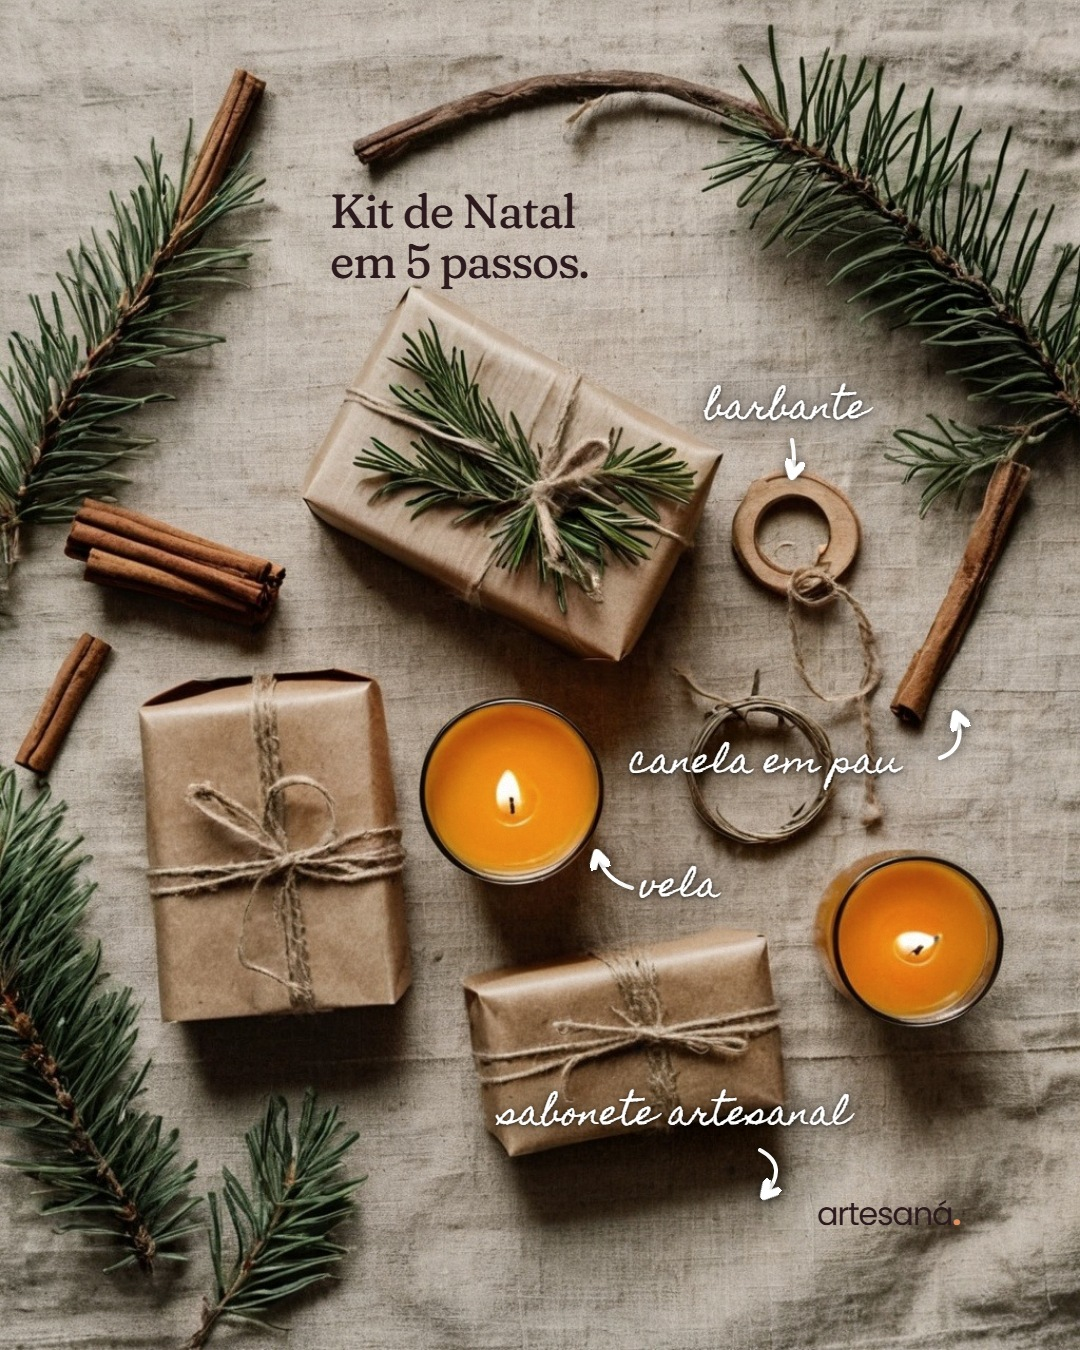
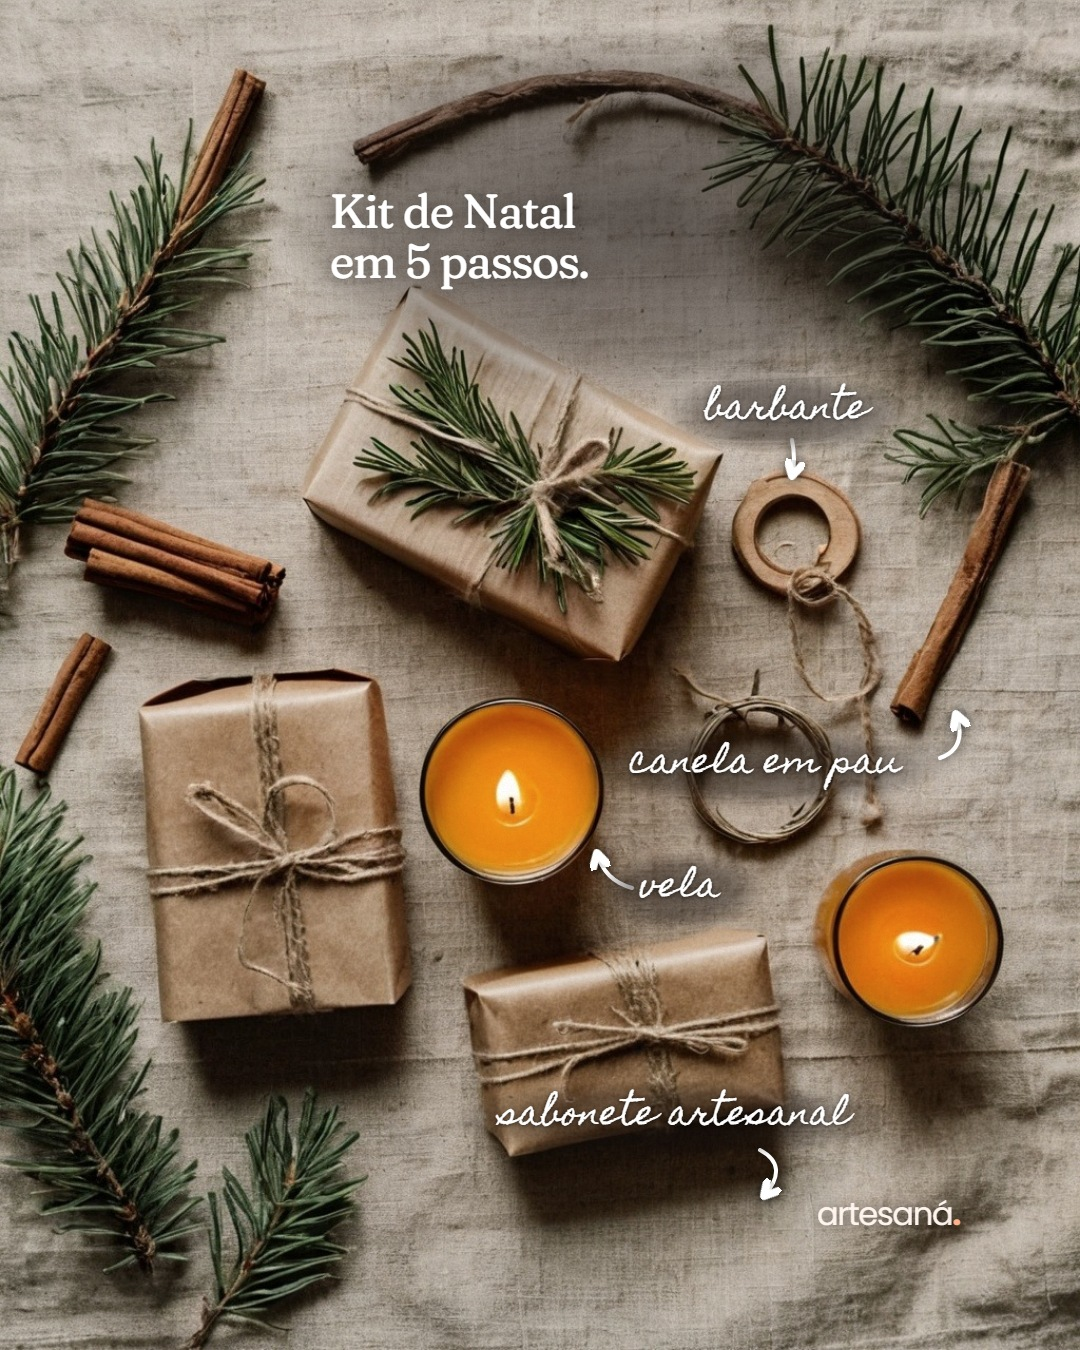
fix(marketing): sombra atrás do texto no frasco e na capa do kit; página força o navegador a baixar as imagens novas

diff --git a/marketing/instagram/modelos/festas.css b/marketing/instagram/modelos/festas.css
@@ -36,7 +36,8 @@
 
 /* .anotada: recados à mão com setas, brancos sobre a foto */
 .anotada .nota { position: absolute; margin: 0; font-family: 'Homemade Apple', cursive; font-size: 34px; line-height: 1.25; color: var(--cream); text-shadow: 0 1px 10px rgba(0, 0, 0, 0.55); white-space: nowrap; }
-.anotada .nota.escura { color: #fff; text-shadow: 0 1px 4px rgba(0, 0, 0, 0.8), 0 0 18px rgba(0, 0, 0, 0.65), 0 0 40px rgba(0, 0, 0, 0.5); }
+/* a foto escurece suavemente atrás de cada nota (sem barra): um halo escuro difuso, e o texto em branco */
+.anotada .nota.escura { color: #fff; padding: 16px 44px 20px; margin: -16px -44px -20px; border-radius: 999px; background: radial-gradient(ellipse at center, rgba(20, 14, 12, 0.55) 0%, rgba(20, 14, 12, 0.38) 45%, rgba(20, 14, 12, 0) 72%); text-shadow: 0 1px 4px rgba(0, 0, 0, 0.7); }
 .anotada svg.setas { position: absolute; left: 0; top: 0; width: 1080px; height: 1350px; pointer-events: none; }
 .anotada svg.setas path { fill: none; stroke: var(--cream); stroke-width: 4; stroke-linecap: round; stroke-linejoin: round; filter: drop-shadow(0 1px 6px rgba(0, 0, 0, 0.5)); }
 .anotada svg.setas path.escura { stroke: #fff; filter: drop-shadow(0 1px 6px rgba(0, 0, 0, 0.7)); }
@@ -47,8 +48,11 @@
 .f1 .janela img { top: 0; }
 .f1 .texto { top: 150px; }
 .f2a .janela img { top: 0; }
+.f2a .veu { left: 0; top: 0; width: 1080px; height: 520px; background: radial-gradient(ellipse 520px 260px at 60% 42%, rgba(20, 14, 12, 0.6) 0%, rgba(20, 14, 12, 0.36) 50%, rgba(20, 14, 12, 0) 75%); }
 .f2a .texto { left: 330px; right: 120px; top: 186px; }
-.f2a .frase { font-size: 48px; line-height: 1.05; }
+.f2a .frase { font-size: 48px; line-height: 1.05; color: #fff; text-shadow: 0 2px 18px rgba(0, 0, 0, 0.55); }
+.f2a .marca { color: var(--cream); text-shadow: 0 2px 14px rgba(0, 0, 0, 0.6); }
+.f2a .marca b { color: var(--peach); }
 .f2a .n1 { left: 500px; top: 1096px; }
 .f2a .n2 { left: 640px; top: 868px; }
 .f2a .n3 { left: 630px; top: 744px; }

diff --git a/marketing/instagram/modelos/serie.css b/marketing/instagram/modelos/serie.css
@@ -52,9 +52,11 @@ body { color: var(--ink); -webkit-font-smoothing: antialiased; }
 
 /* 2 — o rótulo é o primeiro oi (pote com faixa de papel e barbante) */
 .a2 .janela img { top: -60px; }
-.a2 .veu { left: 0; top: 0; width: 1080px; height: 600px; background: radial-gradient(ellipse at 30% 48%, rgba(44, 26, 30, 0.42) 0%, rgba(44, 26, 30, 0.22) 45%, rgba(44, 26, 30, 0) 72%); }
+/* sombra na foto atrás de todo o texto, mais forte onde fica o 'você', sobre a cortina clara */
+.a2 .veu { left: 0; top: 0; width: 1080px; height: 720px; background: radial-gradient(ellipse 560px 300px at 40% 44%, rgba(44, 26, 30, 0.62) 0%, rgba(44, 26, 30, 0.42) 45%, rgba(44, 26, 30, 0) 75%), radial-gradient(ellipse 620px 360px at 30% 35%, rgba(44, 26, 30, 0.45) 0%, rgba(44, 26, 30, 0) 70%); }
 .a2 .texto { top: 150px; right: auto; width: 620px; }
-.a2 .recado { text-shadow: 0 1px 10px rgba(44, 26, 30, 0.35); }
+.a2 .recado { color: #EFE3D2; text-shadow: 0 1px 3px rgba(44, 26, 30, 0.8), 0 0 18px rgba(44, 26, 30, 0.6); }
+.a2 .frase { color: var(--cream); text-shadow: 0 2px 22px rgba(44, 26, 30, 0.55); }
 
 /* 3 — ponto por ponto (bordado): a frase fica dentro do bastidor, no centro vazio da guirlanda */
 .a3 .janela img { top: 0; }

diff --git a/marketing/instagram/index.html b/marketing/instagram/index.html
@@ -68,7 +68,7 @@
       <h1>Publicações prontas</h1>
       <p>Baixe as imagens e os vídeos, copie a legenda e publique. Todas as imagens são geradas por IA: ao publicar, ative o rótulo de IA do Instagram. O guia do estilo, com as ideias de foto pra você fazer em casa, está em <a href="./estilo.html">estilo.html</a>.</p>
       <figure class="grade">
-        <img src="./grade-perfil.jpg" alt="Prévia das publicações na grade do perfil, a mais nova em cima à esquerda.">
+        <img src="./grade-perfil.jpg?v=9be8c8a0" alt="Prévia das publicações na grade do perfil, a mais nova em cima à esquerda.">
         <figcaption>Prévia da grade do perfil com tudo publicado</figcaption>
       </figure>
     </section>

diff --git a/marketing/instagram/modelos/dia2-1.html b/marketing/instagram/modelos/dia2-1.html
@@ -11,6 +11,7 @@
 <body>
 <div class="peca festas inteira anotada f2a">
   <div class="janela"><img src="../ia/kit.jpg" alt=""></div>
+  <div class="veu"></div>
   <div class="texto">
     <p class="frase">Kit de Natal<br>em 5 passos.</p>
   </div>

diff --git a/scripts/gen-instagram-pagina.py b/scripts/gen-instagram-pagina.py
@@ -18,6 +18,12 @@ PASTA = RAIZ / "marketing" / "instagram"
 sys.path.insert(0, str(RAIZ / "scripts"))
 
 
+def versao(arq):
+    """Sufixo de versão pro navegador não mostrar uma imagem antiga guardada: muda quando o arquivo muda."""
+    import hashlib
+    return hashlib.sha256((PASTA / arq).read_bytes()).hexdigest()[:8]
+
+
 def creditos():
     """Lê a tabela de créditos do gerador de imagens, sem executar o gerador."""
     fonte = (RAIZ / "scripts" / "gen-instagram.py").read_text(encoding="utf-8")
@@ -94,7 +100,7 @@ PAGINA = """<!doctype html>
       <h1>Publicações prontas</h1>
       <p>Baixe as imagens e os vídeos, copie a legenda e publique. Todas as imagens são geradas por IA: ao publicar, ative o rótulo de IA do Instagram. O guia do estilo, com as ideias de foto pra você fazer em casa, está em <a href="./estilo.html">estilo.html</a>.</p>
       <figure class="grade">
-        <img src="./grade-perfil.jpg" alt="Prévia das publicações na grade do perfil, a mais nova em cima à esquerda.">
+        <img src="./grade-perfil.jpg?v=__GRADE__" alt="Prévia das publicações na grade do perfil, a mais nova em cima à esquerda.">
         <figcaption>Prévia da grade do perfil com tudo publicado</figcaption>
       </figure>
     </section>
@@ -319,7 +325,7 @@ def main() -> None:
     bio = json.loads((PASTA / "bio.json").read_text(encoding="utf-8"))
     for o in bio["opcoes"]:
         assert contar(o["texto"]) <= 150, f"bio {o['titulo']} com {contar(o['texto'])} caracteres"
-    pagina = PAGINA.replace("__BIO__", bloco_bio(bio)).replace("__SERIES__", secoes(novas)).replace("__ANTIGAS__", "".join(bloco(p) for p in antigas))
+    pagina = PAGINA.replace("__GRADE__", versao("grade-perfil.jpg")).replace("__BIO__", bloco_bio(bio)).replace("__SERIES__", secoes(novas)).replace("__ANTIGAS__", "".join(bloco(p) for p in antigas))
     (PASTA / "index.html").write_text(pagina, encoding="utf-8", newline="\n")
     estilo = md_para_html((PASTA / "estilo.md").read_text(encoding="utf-8"))
     (PASTA / "estilo.html").write_text(ESTILO_PAGINA.replace("__CORPO__", estilo), encoding="utf-8", newline="\n")
